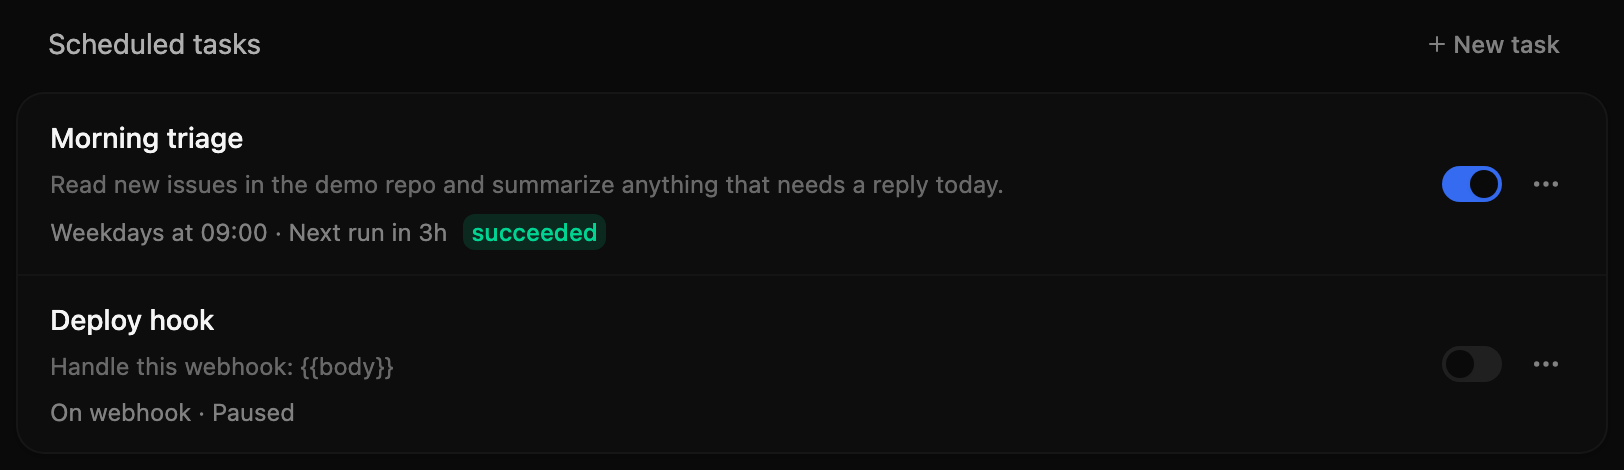
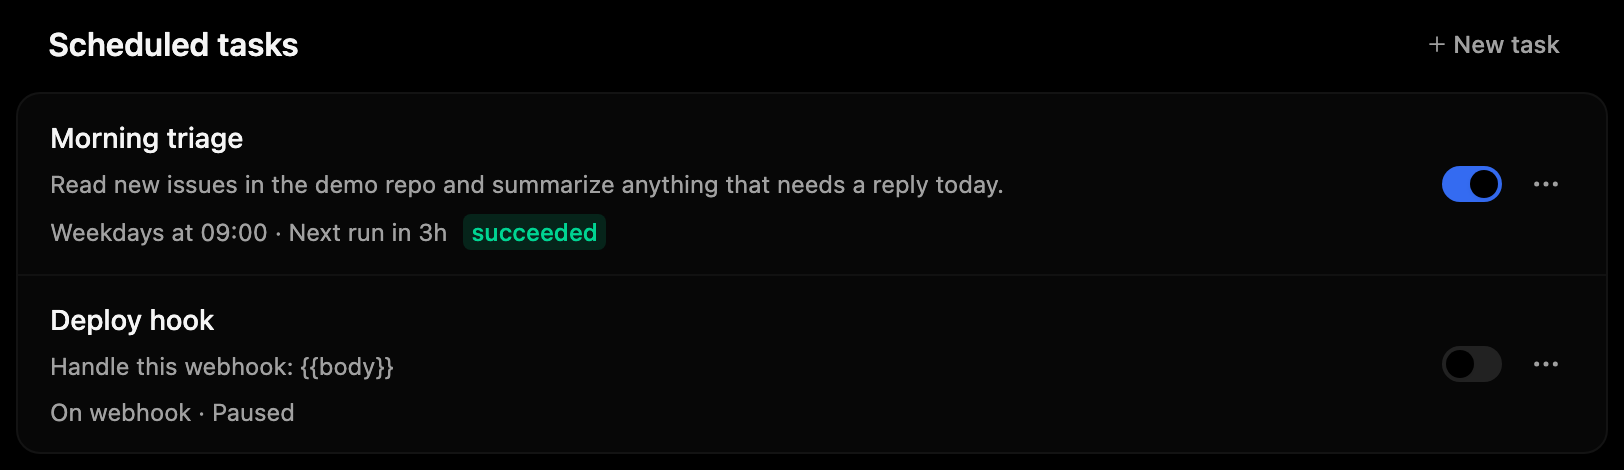
fix(usage): keep metric tabs still when Limits hides the period (#25336)
Match 3814 UsagePage.tsx:394-509,1339-1343,1452-1456: period before metric, no period on Limits, a 48pt modal header with Close and visible filter chevrons. Keep Redesign controls in their previous order and layout. UsageFidelityTests passes all ten cases with its existing ceiling.

diff --git a/Packages/CandyKit/Sources/Features/Usage/UsagePageView.swift b/Packages/CandyKit/Sources/Features/Usage/UsagePageView.swift
@@ -227,7 +227,7 @@ public final class UsagePageView: DSView {
 
     public override func layout() {
         super.layout()
-        let headerH = UsageHeaderView.height
+        let headerH = header.barHeight
         header.frame = NSRect(x: 0, y: 0, width: bounds.width, height: headerH)
         header.viewport = viewport
         scroll.frame = NSRect(x: 0, y: headerH, width: bounds.width, height: max(0, bounds.height - headerH))
@@ -260,6 +260,10 @@ public final class UsagePageView: DSView {
 /// compact ghost selects and refresh.
 public final class UsageHeaderView: TopbarDragView {
     static let height: CGFloat = 52
+    public var isRouteModal = false { didSet { close.isHidden = !isRouteModal; needsLayout = true; needsDisplay = true } }
+    public var barHeight: CGFloat { isRouteModal ? 48 : Self.height }
+    public let close = ButtonView(nil, icon: .x, variant: .ghost, size: .iconSm)
+    private var isDither: Bool { ThemeRuntime.isDither(dark: effectiveAppearance.isDark) }
     private let title = UsageStyle.label("Usage", 14, .medium, color: Themed.color(\.mutedForeground))
     private let slash1 = UsageStyle.label("/", 14, .medium, color: Themed.color(\.iconMuted))
     private let slash2 = UsageStyle.label("/", 14, .medium, color: Themed.color(\.iconMuted))
@@ -285,7 +289,23 @@ public final class UsageHeaderView: TopbarDragView {
             b.setAccessibilityLabel("Refresh usage")
         }
         for s in [metricSelect, periodSelect] { s.fitsContent = true; s.alignItemWithTrigger = false; s.popupAlign = .end }
+        close.isHidden = true
+        close.setAccessibilityLabel("Close")
+        close.toolTip = "Close (Esc)"
+        addSubview(close)
         setAccessibilityLabel("Usage breadcrumb")
+    }
+
+    public override var mouseDownCanMoveWindow: Bool { !isRouteModal }
+    public override func mouseDown(with event: NSEvent) { if !isRouteModal { super.mouseDown(with: event) } }
+    public override func mouseUp(with event: NSEvent) { if !isRouteModal { super.mouseUp(with: event) } }
+    public override var wantsUpdateLayer: Bool { false }
+    public override func draw(_ dirtyRect: NSRect) {
+        super.draw(dirtyRect)
+        if isRouteModal {
+            Themed.color(\.border).setFill()
+            NSRect(x: 0, y: bounds.height - 1, width: bounds.width, height: 1).fill()
+        }
     }
 
     func apply(_ m: UsagePageView.Model) {
@@ -314,37 +334,46 @@ public final class UsageHeaderView: TopbarDragView {
 
     public override func layout() {
         super.layout()
-        let xl = viewport >= 1280, xxl = viewport >= 1536
+        let xl = isDither ? viewport >= 1280 : bounds.width >= 896
+        let xxl = isDither ? viewport >= 1536 : bounds.width >= 1280
         for v in [metric, period, refresh] as [NSView] { v.isHidden = !xl }
         for v in [metricSelect, periodSelect, compactRefresh] as [NSView] { v.isHidden = xl }
+        if !isDither { period.isHidden = !xl || !showsWindowLabel; periodSelect.isHidden = xl || !showsWindowLabel }
         windowLabel.isHidden = !(xxl && showsWindowLabel)
         // Right cluster first, so the breadcrumb truncates into what is left.
-        var right = bounds.width - 20
-        let controls: [NSView] = xl ? [refresh, period, metric] : [compactRefresh, periodSelect, metricSelect]
+        var right = bounds.width - (isRouteModal ? 8 : 20)
+        if isRouteModal {
+            right -= 28
+            close.frame = NSRect(x: right, y: (barHeight - 28) / 2, width: 28, height: 28)
+            right -= 4
+        }
+        let controls: [NSView] = isDither ? (xl ? [refresh, period, metric] : [compactRefresh, periodSelect, metricSelect])
+            : (xl ? [refresh, metric, period] : [compactRefresh, metricSelect, periodSelect]).filter { !$0.isHidden }
         for (i, c) in controls.enumerated() {
             let s = c.intrinsicContentSize
             right -= s.width
-            c.frame = NSRect(x: right, y: ((Self.height - s.height) / 2).rounded(), width: s.width, height: s.height)
+            c.frame = NSRect(x: right, y: ((barHeight - s.height) / 2).rounded(), width: s.width, height: s.height)
             right -= xl ? 8 : 4
             _ = i
         }
-        var x = contentStart
+        var x = isRouteModal ? 20 : contentStart
+        let y = (barHeight - 20) / 2
         let gap: CGFloat = viewport >= 640 ? 12 : 8
-        title.frame = NSRect(x: x, y: 16, width: ceil(title.textWidth) + 1, height: 20)
+        title.frame = NSRect(x: x, y: y, width: ceil(title.textWidth) + 1, height: 20)
         x = title.frame.maxX + gap
-        slash1.frame = NSRect(x: x, y: 16, width: ceil(slash1.textWidth), height: 20)
+        slash1.frame = NSRect(x: x, y: y, width: ceil(slash1.textWidth), height: 20)
         x = slash1.frame.maxX + gap
         let budget = max(0, right - 12 - x)
         let ew = min(environment.intrinsicContentSize.width, max(40, budget * 0.6))
-        environment.frame = NSRect(x: x, y: 14, width: ew, height: 24)
+        environment.frame = NSRect(x: x, y: y - 2, width: ew, height: 24)
         x = environment.frame.maxX + gap
-        slash2.frame = NSRect(x: x, y: 16, width: ceil(slash2.textWidth), height: 20)
+        slash2.frame = NSRect(x: x, y: y, width: ceil(slash2.textWidth), height: 20)
         x = slash2.frame.maxX + gap
         let pw = min(providers.intrinsicContentSize.width, max(40, right - 12 - x))
-        providers.frame = NSRect(x: x, y: 14, width: pw, height: 24)
+        providers.frame = NSRect(x: x, y: y - 2, width: pw, height: 24)
         x = providers.frame.maxX + 12
         if !windowLabel.isHidden {
-            windowLabel.frame = NSRect(x: x, y: 18, width: max(0, min(ceil(windowLabel.textWidth) + 1, right - 12 - x)), height: 16)
+            windowLabel.frame = NSRect(x: x, y: y + 2, width: max(0, min(ceil(windowLabel.textWidth) + 1, right - 12 - x)), height: 16)
         }
     }
 }
@@ -378,7 +407,11 @@ public final class UsageInlineMenuButton: ControlView {
         chevron.strokeColor = Themed.color(\.mutedForeground)
         // `opacity-0 transition-opacity`, shown on hover, keyboard focus or an open menu (UsagePage.tsx:1287,1401).
         chevron.isHidden = alert
-        HoverReveal.fade([chevron], visible: active || state.focusVisible)
+        if ThemeRuntime.isDither(dark: effectiveAppearance.isDark) {
+            HoverReveal.fade([chevron], visible: active || state.focusVisible)
+        } else {
+            chevron.alphaValue = active || state.focusVisible ? 1 : 0.6
+        }
         warning.isHidden = !alert
         warning.strokeColor = Themed.color(\.warningForeground)
     }

diff --git a/Packages/CandyKit/Tests/FeaturesTests/UsageFidelityTests.swift b/Packages/CandyKit/Tests/FeaturesTests/UsageFidelityTests.swift
@@ -26,6 +26,7 @@ struct UsageFidelityTests {
         switch kind {
         case "header":
             let h = UsageHeaderView()
+            h.isRouteModal = true
             h.viewport = 1440
             var m = UsagePageView.Model()
             m.metric = "limits"

diff --git a/scripts/gen-usage-spec.py b/scripts/gen-usage-spec.py
@@ -5,7 +5,7 @@ the /usage-limits banner (ComposerUsageLimits.tsx, ComposerBanner.tsx, UsageLimi
 Scheduled Tasks list (ScheduledTasksSettings.tsx:243-460, settingsLayout.tsx) and the editor's schedule rows
 (ScheduledTasksSettings.tsx:1155-1325).
 
-Class strings are copied from those files at the tag in T3_VERSION; buttons, rows, switches, badges and
+Class strings are copied from those files at v0.1.4-nightly.20261028.3814; buttons, rows, switches, badges and
 inputs come from gen-settings-pages2-spec.py, gen-toggles-spec.py and gen-composer-attachments-spec.py.
 Usage: /usr/bin/python3 -I scripts/gen-usage-spec.py
 """
@@ -40,20 +40,19 @@ def group(variant, items, pressed, disabled=False):
 # --- 1. The header at xl (no window label below 2xl).
 INLINE = ("inline-flex shrink-0 cursor-pointer items-center gap-0.5 font-medium underline-offset-2 [text-align:var(--inline-button-text-align,center)] "
           "[white-space:var(--inline-button-white-space,nowrap)] hover:underline text-foreground min-w-0 max-w-full")
-CHEV = lucide("chevron-down", "size-3.5 opacity-0")
+CHEV = lucide("chevron-down", "size-3.5 opacity-60")
 crumb_env = f'<button type="button" class="{INLINE}"><span class="min-w-0 truncate">All environments</span><span class="flex size-3.5 shrink-0 items-center justify-center text-muted-foreground">{CHEV}</span></button>'
-crumb_prov = f'<button type="button" class="{INLINE}"><span class="min-w-0 truncate">All providers</span>{lucide("chevron-down", "size-3.5 shrink-0 text-muted-foreground opacity-0")}</button>'
+crumb_prov = f'<button type="button" class="{INLINE}"><span class="min-w-0 truncate">All providers</span>{lucide("chevron-down", "size-3.5 shrink-0 text-muted-foreground opacity-60")}</button>'
 SEP = '<li aria-hidden="true" class="flex shrink-0 items-center text-icon-muted">/</li>'
-header = ('<header class="flex shrink-0 items-center gap-3 px-5" style="height:52px"><div class="flex w-full min-w-0 items-center gap-x-3 py-2">'
+header = ('<header class="flex h-12 shrink-0 items-center gap-1 border-b ps-5 pe-2">'
           '<nav class="min-w-0"><ol class="m-0 flex min-w-0 list-none items-center gap-3 p-0 text-sm">'
           '<li class="flex min-w-0 items-center font-medium shrink-0 text-muted-foreground"><h1>Usage</h1></li>' + SEP
           + f'<li class="flex items-center font-medium shrink-0 text-muted-foreground min-w-10">{crumb_env}</li>' + SEP
           + f'<li class="flex items-center font-medium text-foreground min-w-10">{crumb_prov}</li></ol></nav>'
           '<div class="ms-auto flex min-w-0 items-center justify-end gap-2">'
           + group("segmented", ["Cost", "Tokens", "Limits"], 2)
-          + group("segmented", ["Past 24h", "7 days", "30 days", "90 days"], 2, disabled=True)
           + button("ghost", "icon-sm", lucide("refresh-cw", "size-3.5"))
-          + '</div></div></header>')
+          + '</div>' + button("ghost", "icon-sm", lucide("x", "size-4")) + '</header>')
 
 # --- 2. A 7-day cost chart (UsageProviderChart.tsx), paths from the ported maths.
 DAYS = ["2026-10-04", "2026-10-05", "2026-10-06", "2026-10-07", "2026-10-08", "2026-10-09", "2026-10-10"]
@@ -155,14 +154,14 @@ MORE = button("ghost", "icon-sm", lucide("ellipsis", "size-4"))
 
 
 def task_row(title, prompt, status, badge, enabled):
-    desc = (f'<p class="max-w-xl text-xs leading-normal text-muted-foreground/80"><span class="line-clamp-2">{prompt}</span></p>'
+    desc = (f'<p class="max-w-2xl text-balance text-xs leading-normal text-muted-foreground"><span class="line-clamp-2">{prompt}</span></p>'
             f'<div class="pt-0.5 text-xs text-muted-foreground"><div class="flex flex-wrap items-center gap-2"><span>{status}</span>{badge}</div></div>')
     return row(title, "", f'<div class="flex items-center gap-2">{switch("default", "on" if enabled else "off", False)}{MORE}</div>', desc_html=desc)
 
 
 NEW_TASK = button("ghost-muted", "xs", lucide("plus", "size-3") + "New task")
 tasks = ('<section class="space-y-2.5"><div class="flex min-h-7 items-start justify-between gap-4 px-3 sm:px-4">'
-         '<div class="flex min-w-0 items-center gap-1"><h2 class="flex min-h-7 items-center gap-2 text-sm font-normal text-foreground/70">Scheduled tasks</h2></div>'
+         '<div class="flex min-w-0 items-center gap-1"><h2 class="flex min-h-7 items-center gap-2 text-base font-semibold text-foreground">Scheduled tasks</h2></div>'
          f'<div class="flex min-h-7 min-w-7 items-center justify-end">{NEW_TASK}</div></div>'
          '<div class="relative overflow-visible text-foreground space-y-1"><div class="space-y-8"><section><h2 class="sr-only">host</h2>'
          f'<div class="{GROUP}">'
@@ -184,13 +183,13 @@ schedule = ('<div class="space-y-3"><div class="flex items-center justify-betwee
             f'<div data-slot="toggle-group" data-variant="outline" role="group" class="{tog["G_ALWAYS"]} {OUTLINE_JOINED}">{days}</div></div></div>')
 
 cases = [
-    {"name": "header", "html": header, "wrapperStyle": "display:block;width:860px", "native": {"kind": "header"}},
+    {"name": "header", "html": header, "wrapperStyle": "display:block;width:1040px", "native": {"kind": "header"}},
     {"name": "chart", "html": chart, "wrapperStyle": "display:block;width:600px", "native": {"kind": "chart"}},
     {"name": "limits-banner", "html": banner, "wrapperStyle": "display:block;width:692px", "native": {"kind": "banner"}},
     {"name": "scheduled-tasks", "html": tasks, "wrapperStyle": "display:block;width:796px", "native": {"kind": "tasks"}},
     {"name": "task-schedule", "html": schedule, "wrapperStyle": "display:block;width:528px", "native": {"kind": "schedule"}},
 ]
-spec = {"component": "usage", "source": "apps/web/src/components/usage/UsagePage.tsx, settings/ScheduledTasksSettings.tsx",
+spec = {"component": "usage", "viewportWidth": 1100, "source": "apps/web/src/components/usage/UsagePage.tsx, settings/ScheduledTasksSettings.tsx",
         "states": ["rest"], "themes": ["light", "dark"], "cases": cases}
 with open(os.path.join(ROOT, "design/component-reference/usage.json"), "w") as f:
     json.dump(spec, f, indent=1, ensure_ascii=False)
